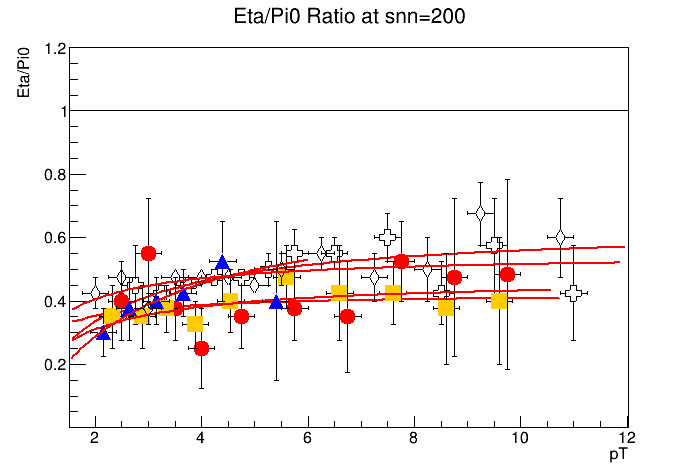
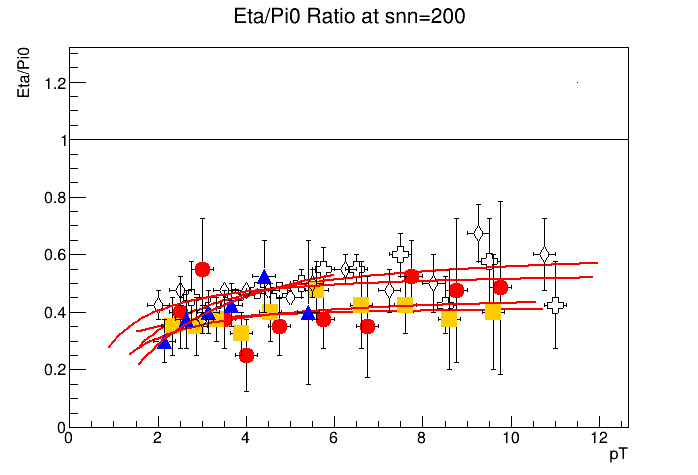
requires fit labels

diff --git a/EtaVsPi0.cpp b/EtaVsPi0.cpp
@@ -127,13 +127,24 @@ void EtaVsPi0(){
   Double_t xi4[14], yi4[14];
   Double_t x5[13], y5[13], ex5[13], ey5[13], iy5[13];
   Double_t xi5[13], yi5[13];
-  Double_t x6[2], y6[2];
+  Double_t x6[2], y6[2],x7[2],y7[2];
   Int_t n1=10,n2=10,n3=6,n4=13,n5=12,n6=2;
 
   TLegend* legend=new TLegend(.13,.7,.35,.9);
     legend->SetTextFont(72);
     legend->SetTextSize(.03);
     legend->SetFillColor(0);
+
+  x7[0]=0;
+  x7[1]=11.5;
+  y7[0]=0;
+  y7[1]=1.2;
+  TGraph* gr7=new TGraph(n6,x7,y7);
+    gr7->SetTitle("Eta/Pi0 Ratio at snn=200; pT; Eta/Pi0");
+    gr7->SetMarkerStyle(27);
+    gr7->SetMarkerSize(0);
+    gr7->SetMarkerColor(kBlack);
+    gr7->Draw("Ap");
 
   cout<<"Input PP: "<<endl;
   for (Int_t l=0;l<n5;l++){;
@@ -143,12 +154,11 @@ void EtaVsPi0(){
     ey5[l]=pp[l].errR;
   }
   TGraphErrors* gr5= new TGraphErrors(n5,x5,y5,ex5,ey5);
-    gr5->SetTitle("Eta/Pi0 Ratio at snn=200; pT; Eta/Pi0");
     gr5->SetMarkerStyle(28);
     gr5->SetMarkerSize(2);
     gr5->SetMarkerColor(kBlack);
     //gr5->SetLineColor(kGray);
-    gr5->Draw("AP");
+    gr5->Draw("P");
 
   cout<<"Input AUAUCENT: "<<endl;
   for (Int_t l=0;l<n1;l++){;
